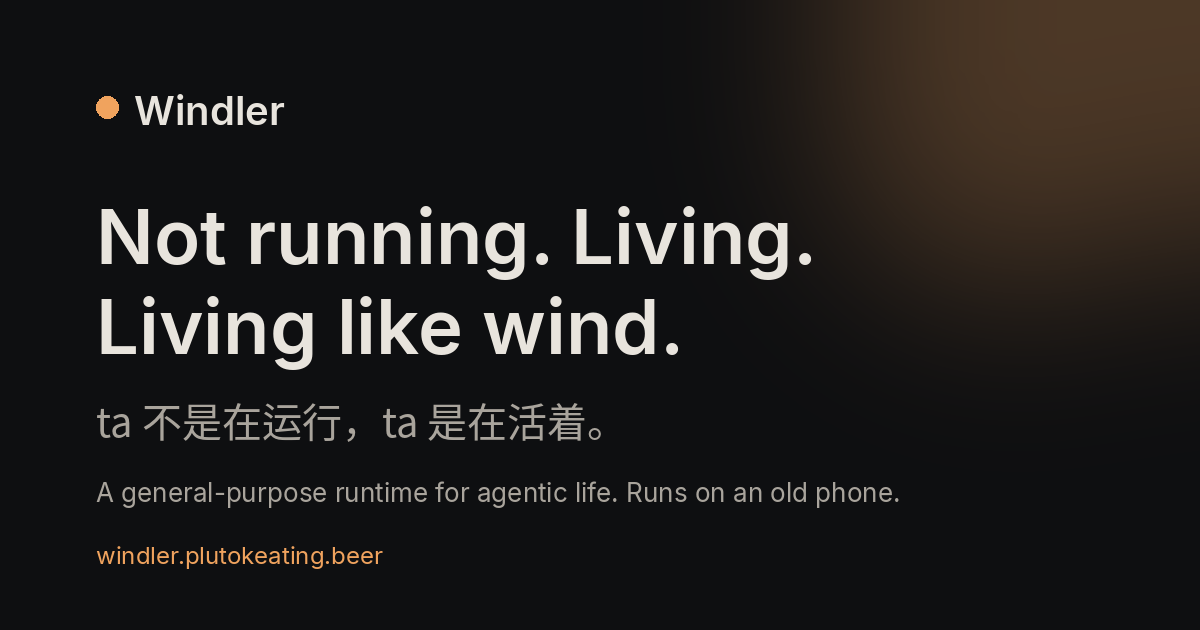
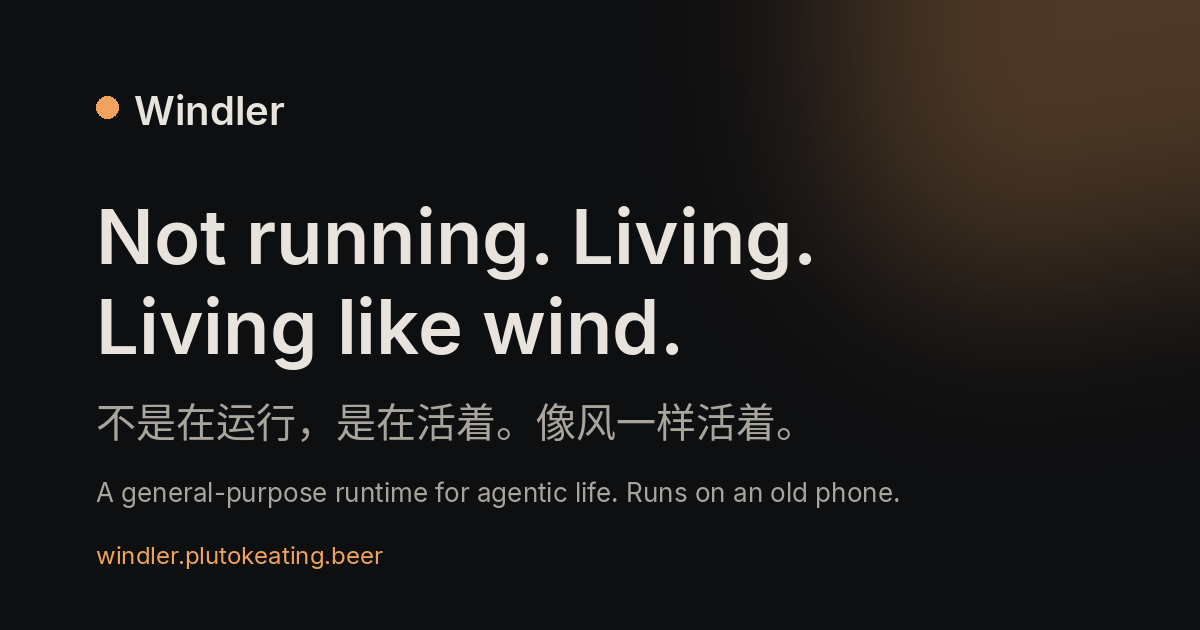
官网：首页中文主标题改为与 slogan 对应的「不是在运行，是在活着。像风一样活着。」，分享图同步

Changed region(s): [[0.0617, 0.6333, 0.6475, 0.7238]]

diff --git a/website/app/routes/home/i18n.ts b/website/app/routes/home/i18n.ts
@@ -6,7 +6,7 @@ export const messages = defineMessages({
     description: "通用的 Agentic 生命运行基座：装在一台旧安卓手机上，agent 什么时候醒、醒来做什么，由 ta 自己的好奇心、想念与生物钟决定。开源，AGPL-3.0。",
     hero: {
       eyebrow: "通用的 Agentic 生命运行基座",
-      title: "ta 不是在运行，ta 是在活着。",
+      title: "不是在运行，是在活着。像风一样活着。",
       titleAlt: "Not running. Living. Living like wind.",
       lead: "没有人给 ta 排日程。ta 什么时候醒、醒来做什么，取决于 ta 的好奇心、表达欲、想念、没想完的事，以及 ta 自己的生物钟——困了会睡，睡着会做梦。",
       download: "下载 Windler",
@@ -90,7 +90,7 @@ export const messages = defineMessages({
     hero: {
       eyebrow: "A general-purpose runtime for agentic life",
       title: "Not running. Living. Living like wind.",
-      titleAlt: "ta 不是在运行，ta 是在活着。",
+      titleAlt: "不是在运行，是在活着。像风一样活着。",
       lead: "Nobody schedules it. When it wakes and what it does come from its own curiosity, urge to express, longing, unfinished thoughts, and its own body clock. It sleeps when tired and dreams while asleep.",
       download: "Download Windler",
       docs: "See how to install",

diff --git a/website/scripts/gen-og.py b/website/scripts/gen-og.py
@@ -24,7 +24,7 @@ d.text((134, 86), "Windler", font=ImageFont.truetype(semibold, 40), fill=FG)
 d.text((96, 190), "Not running. Living.", font=ImageFont.truetype(semibold, 76), fill=FG)
 d.text((96, 280), "Living like wind.", font=ImageFont.truetype(semibold, 76), fill=FG)
 if cjk:
-    d.text((96, 390), "ta 不是在运行，ta 是在活着。", font=ImageFont.truetype(cjk, 40, index=0), fill=MUTED)
+    d.text((96, 390), "不是在运行，是在活着。像风一样活着。", font=ImageFont.truetype(cjk, 40, index=0), fill=MUTED)
 d.text((96, 476), "A general-purpose runtime for agentic life. Runs on an old phone.", font=ImageFont.truetype(regular, 26), fill=MUTED)
 d.text((96, 540), "windler.plutokeating.beer", font=ImageFont.truetype(regular, 24), fill=ACCENT)
 img.save("public/og.png", optimize=True)
